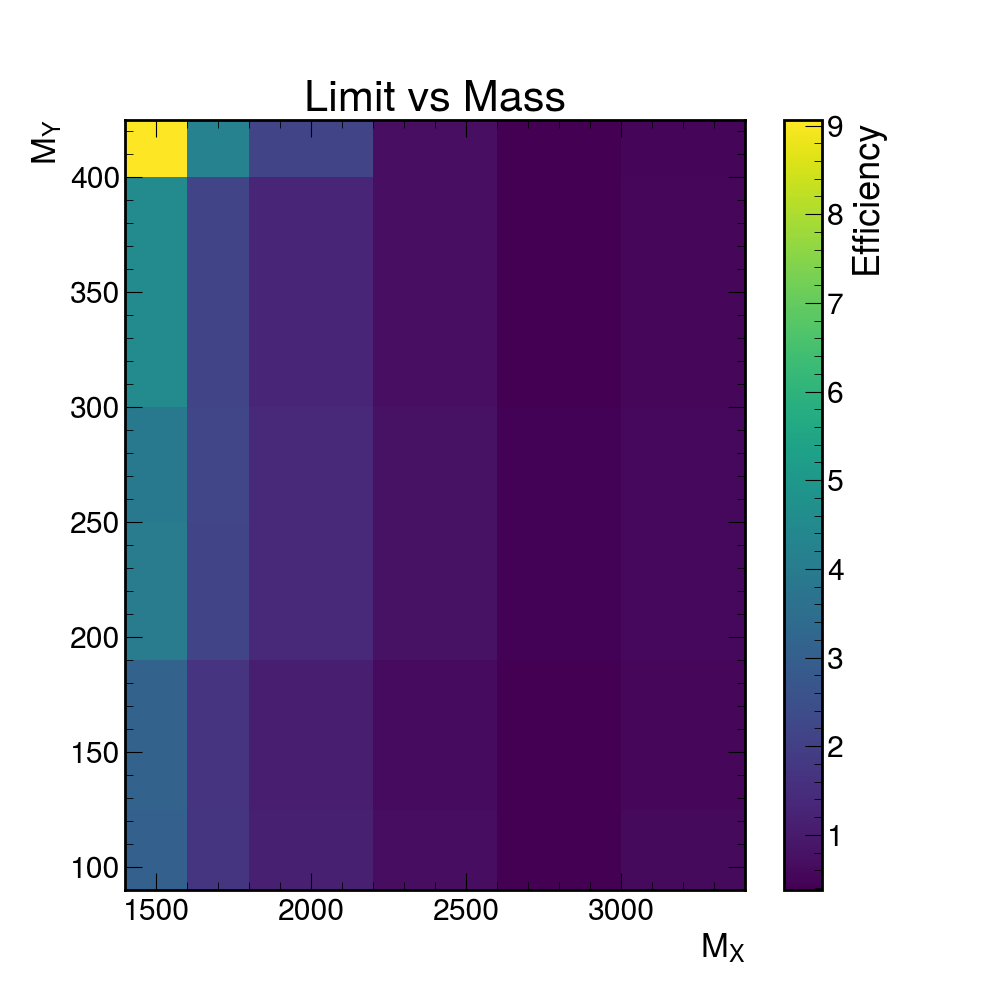
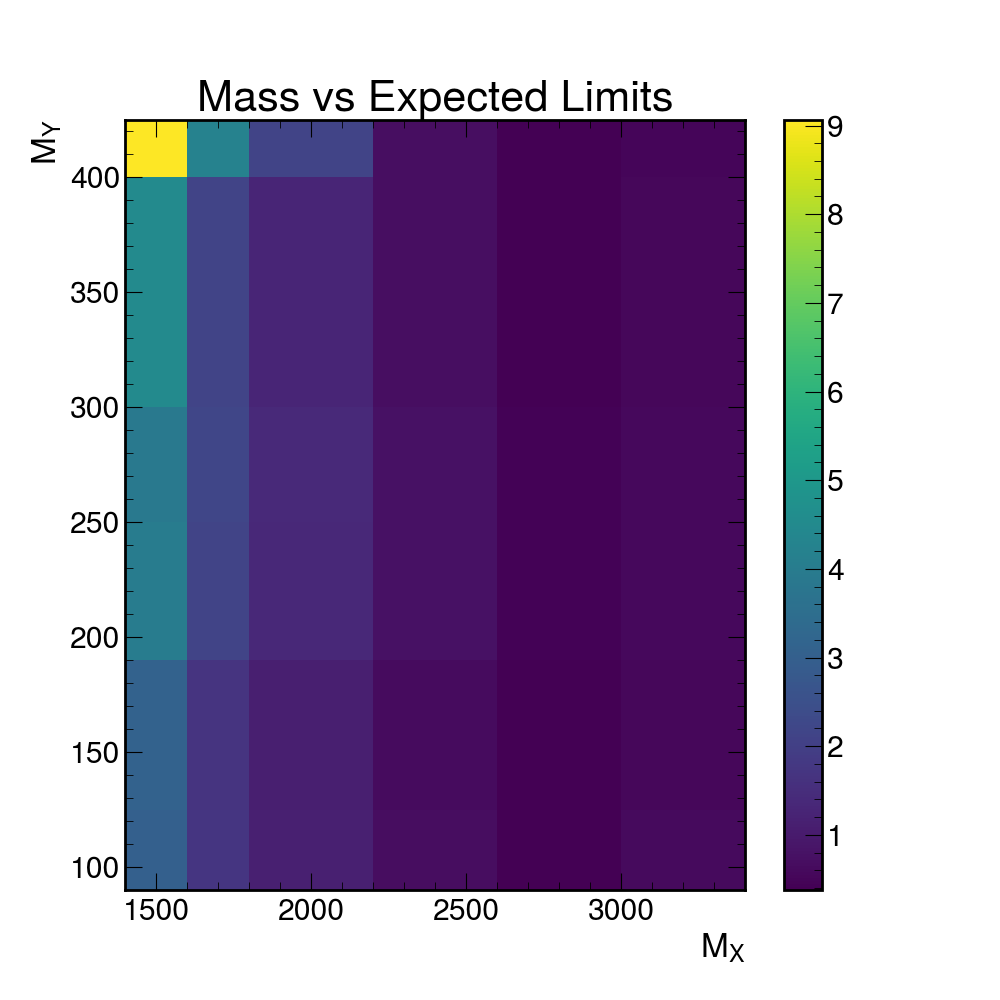
Plotting expected limits

Changed region(s): [[0.186, 0.062, 0.682, 0.124], [0.837, 0.124, 0.899, 0.279]]

diff --git a/limit_plotting/plotting_limits.py b/limit_plotting/plotting_limits.py
@@ -38,12 +38,12 @@ def Plot(Limits):
 
     plt.pcolormesh(x_edges, y_edges, Limits, shading='auto', cmap='viridis')
 
-    plt.colorbar(label='Efficiency')
+    plt.colorbar() #label='Efficiency')
 
     plt.ylabel(r'$M_{Y}$', fontsize=24)
     plt.xlabel(r'$M_{X}$', fontsize=24)
 
-    plt.title("Limit vs Mass")
+    plt.title("Mass vs Expected Limits")
     plt.savefig('Limit_vs_Mass.png')
 
 def MakePlots():
